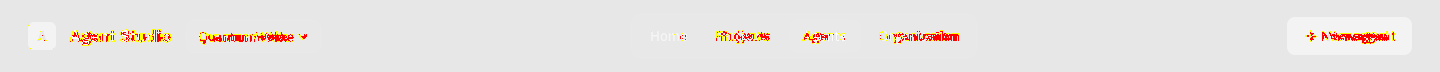
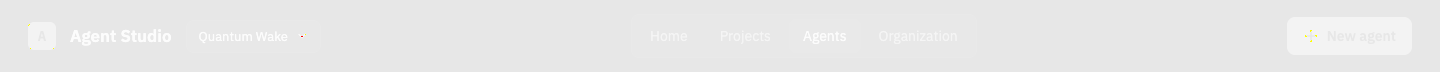
Match the AppHeader story to the Agents mockup source.
The gate's own browser scores the top 72px at 0.00% once the type, padding and controls follow source/Agents.dc.html.

Changed region(s): [[0.0312, 0.4167, 0.2188, 0.6389], [0.4688, 0.4167, 0.6875, 0.6111], [0.9062, 0.4444, 0.9688, 0.6111]]

diff --git a/examples/app-header/index.html b/examples/app-header/index.html
@@ -1,144 +1,34 @@
 <!DOCTYPE html>
 <html lang="en">
 <head>
-<meta charset="UTF-8" />
+<meta charset="utf-8" />
 <title>AppHeader</title>
+<link href="https://fonts.googleapis.com/css2?family=IBM+Plex+Mono:wght@400;500;600&amp;family=IBM+Plex+Sans:wght@400;500;600;700&amp;display=swap" rel="stylesheet">
 <style>
-  @font-face {
-    font-family: "IBM Plex Sans";
-    src: url("../../node_modules/@fontsource/ibm-plex-sans/files/ibm-plex-sans-latin-400-normal.woff") format("woff");
-    font-weight: 400;
-    font-style: normal;
-  }
-  @font-face {
-    font-family: "IBM Plex Sans";
-    src: url("../../node_modules/@fontsource/ibm-plex-sans/files/ibm-plex-sans-latin-500-normal.woff") format("woff");
-    font-weight: 500;
-    font-style: normal;
-  }
-  @font-face {
-    font-family: "IBM Plex Sans";
-    src: url("../../node_modules/@fontsource/ibm-plex-sans/files/ibm-plex-sans-latin-600-normal.woff") format("woff");
-    font-weight: 600;
-    font-style: normal;
-  }
-  html, body { margin: 0; background: #141210; }
-  header {
-    position: relative;
-    width: 1440px;
-    height: 72px;
-    background: #141210;
-    font-family: "IBM Plex Sans", sans-serif;
-    -webkit-font-smoothing: antialiased;
-    color: #ece6df;
-  }
-  .logo {
-    position: absolute;
-    left: 28px;
-    top: 22px;
-    width: 28px;
-    height: 28px;
-    border-radius: 6px;
-    background: #e8743b;
-    color: #0f0e0d;
-    font-weight: 600;
-    font-size: 14px;
-    line-height: 28px;
-    text-align: center;
-  }
-  .product {
-    position: absolute;
-    left: 69px;
-    top: 0;
-    height: 72px;
-    display: flex;
-    align-items: center;
-    font-weight: 600;
-    font-size: 17px;
-  }
-  .org {
-    position: absolute;
-    left: 186px;
-    top: 20px;
-    width: 135px;
-    height: 33px;
-    box-sizing: border-box;
-    border: 1px solid #2a2622;
-    border-radius: 8px;
-    background: #1c1a17;
-    color: #c9c0b6;
-    font-size: 14px;
-    font-weight: 400;
-    display: flex;
-    align-items: center;
-    padding: 0 12px 0 11px;
-    justify-content: space-between;
-  }
-  .nav {
-    position: absolute;
-    left: 631px;
-    top: 14px;
-    width: 346px;
-    height: 44px;
-    box-sizing: border-box;
-    border: 1px solid #2a2622;
-    border-radius: 10px;
-    background: #1c1a17;
-  }
-  .nav .pill {
-    position: absolute;
-    left: 157px;
-    top: 4px;
-    width: 72px;
-    height: 34px;
-    border-radius: 8px;
-    background: #2b2520;
-  }
-  .nav span {
-    position: absolute;
-    top: 0;
-    height: 42px;
-    display: flex;
-    align-items: center;
-    font-size: 14px;
-    font-weight: 500;
-    color: #a39a90;
-  }
-  .nav .home { left: 18px; }
-  .nav .projects { left: 83px; }
-  .nav .on { left: 170px; color: #ece6df; }
-  .nav .organization { left: 247px; }
-  .action {
-    position: absolute;
-    left: 1287px;
-    top: 17px;
-    width: 125px;
-    height: 38px;
-    border-radius: 8px;
-    background: #e8743b;
-    color: #0f0e0d;
-    font-size: 14px;
-    font-weight: 600;
-    display: flex;
-    align-items: center;
-    justify-content: center;
-    gap: 6px;
-  }
+  body { margin: 0; background: #0f0e0d; }
+  button { font: inherit; }
 </style>
 </head>
 <body>
-<header>
-  <div class="logo">A</div>
-  <div class="product">Agent Studio</div>
-  <div class="org">Quantum Wake <svg width="10" height="6" viewBox="0 0 10 6" aria-hidden="true"><path d="M1 1l4 4 4-4" fill="none" stroke="#a39a90" stroke-width="1.2" stroke-linecap="round"/></svg></div>
-  <div class="nav" role="tablist" aria-label="Sections">
-    <div class="pill" aria-hidden="true"></div>
-    <span class="home" role="tab">Home</span>
-    <span class="projects" role="tab">Projects</span>
-    <span class="on" role="tab" aria-selected="true">Agents</span>
-    <span class="organization" role="tab">Organization</span>
-  </div>
-  <div class="action">+ New agent</div>
+<!--
+  The header from docs/design/mockups/app-v2/source/Agents.dc.html.
+  The pixel gate clips this page to the top 72px of 8-Agents.png.
+-->
+<div style="min-height: 960px; background: #0f0e0d; color: #ece6df; font-family: 'IBM Plex Sans', system-ui, sans-serif; display: flex; flex-direction: column">
+<header style="display: flex; align-items: center; justify-content: space-between; gap: 20px; padding: 14px 28px; border-bottom: 1px solid #2a2622; background: #141210; flex-wrap: wrap">
+<div style="display: flex; align-items: center; gap: 14px">
+<div style="width: 28px; height: 28px; border-radius: 6px; background: #e8743b; display: flex; align-items: center; justify-content: center; font-family: 'IBM Plex Mono', monospace; font-weight: 600; color: #160d07; font-size: 14px">A</div>
+<span style="font-weight: 600; font-size: 17px">Agent Studio</span>
+<button type="button" style="display: inline-flex; align-items: center; gap: 8px; padding: 7px 12px; border-radius: 8px; border: 1px solid #2a2622; background: #1c1a17; color: #ece6df; font-size: 13px; cursor: pointer">Quantum Wake<svg width="12" height="12" viewBox="0 0 24 24" fill="none" stroke="currentColor" stroke-width="2.4" stroke-linecap="round" aria-hidden="true"><path d="M6 9l6 6 6-6"/></svg></button>
+</div>
+<nav aria-label="Sections" style="display: flex; gap: 4px; background: #1c1a17; border: 1px solid #2a2622; border-radius: 8px; padding: 4px">
+<span style="padding: 8px 14px; border-radius: 6px; color: #a39a90; font-size: 14px">Home</span>
+<span style="padding: 8px 14px; border-radius: 6px; color: #a39a90; font-size: 14px">Projects</span>
+<span style="padding: 8px 14px; border-radius: 6px; background: #2b2520; color: #ece6df; font-size: 14px">Agents</span>
+<span style="padding: 8px 14px; border-radius: 6px; color: #a39a90; font-size: 14px">Organization</span>
+</nav>
+<button type="button" style="display: inline-flex; align-items: center; gap: 8px; padding: 10px 16px; border-radius: 8px; border: none; background: #e8743b; color: #160d07; font-weight: 600; font-size: 14px; cursor: pointer"><svg width="16" height="16" viewBox="0 0 24 24" fill="none" stroke="currentColor" stroke-width="2.4" stroke-linecap="round" aria-hidden="true"><path d="M12 5v14M5 12h14"/></svg>New agent</button>
 </header>
+</div>
 </body>
 </html>

diff --git a/src/components/AppHeader.tsx b/src/components/AppHeader.tsx
@@ -40,16 +40,15 @@ export const AppHeader: React.FC<AppHeaderProps> = ({
                 display: 'flex',
                 alignItems: 'center',
                 justifyContent: 'space-between',
-                gap: 16,
-                height: 72,
-                padding: '0 28px',
+                gap: 20,
+                padding: '14px 28px',
                 background: studio.header,
                 borderBottom: `1px solid ${studio.line}`,
                 fontFamily: studio.font,
                 color: studio.text,
             }}
         >
-            <div style={{ display: 'flex', alignItems: 'center', gap: 10, minWidth: 0 }}>
+            <div style={{ display: 'flex', alignItems: 'center', gap: 14, minWidth: 0 }}>
                 <span
                     aria-hidden="true"
                     style={{
@@ -60,15 +59,16 @@ export const AppHeader: React.FC<AppHeaderProps> = ({
                         height: 28,
                         borderRadius: 6,
                         background: studio.accent,
-                        color: studio.ground,
-                        fontWeight: 650,
+                        color: '#160d07',
+                        fontFamily: studio.mono,
+                        fontWeight: 600,
                         fontSize: 14,
                         flex: 'none',
                     }}
                 >
                     {mark}
                 </span>
-                <span style={{ fontSize: 14, fontWeight: 600, whiteSpace: 'nowrap' }}>{product}</span>
+                <span style={{ fontSize: 17, fontWeight: 600, whiteSpace: 'nowrap' }}>{product}</span>
                 <label style={{ display: 'inline-flex', alignItems: 'center' }}>
                     <span className="sr-only" style={{ position: 'absolute', width: 1, height: 1, overflow: 'hidden', clip: 'rect(0 0 0 0)' }}>
                         Organization
@@ -79,11 +79,11 @@ export const AppHeader: React.FC<AppHeaderProps> = ({
                         onChange={(event) => onOrganization?.(event.target.value)}
                         style={{
                             appearance: 'none',
-                            background: studio.header,
-                            color: studio.textMuted,
+                            background: '#1c1a17',
+                            color: studio.text,
                             border: `1px solid ${studio.line}`,
                             borderRadius: 8,
-                            padding: '4px 28px 4px 10px',
+                            padding: '7px 12px',
                             font: 'inherit',
                             fontSize: 13,
                         }}
@@ -100,19 +100,22 @@ export const AppHeader: React.FC<AppHeaderProps> = ({
                     type="button"
                     onClick={action.onClick}
                     style={{
+                        display: 'inline-flex',
+                        alignItems: 'center',
+                        gap: 8,
                         border: 0,
                         borderRadius: 8,
-                        height: 38,
-                        padding: '0 16px',
+                        padding: '10px 16px',
                         background: studio.accent,
-                        color: studio.ground,
+                        color: '#160d07',
                         font: 'inherit',
                         fontSize: 14,
                         fontWeight: 600,
                         cursor: 'pointer',
                     }}
                 >
-                    + {action.label}
+                    <svg width="16" height="16" viewBox="0 0 24 24" fill="none" stroke="currentColor" strokeWidth="2.4" strokeLinecap="round" aria-hidden="true"><path d="M12 5v14M5 12h14" /></svg>
+                    {action.label}
                 </button>
             ) : user ? (
                 <div style={{ display: 'flex', alignItems: 'center', gap: 8, fontSize: 13 }}>

diff --git a/src/components/SegmentedNav.tsx b/src/components/SegmentedNav.tsx
@@ -13,6 +13,11 @@ export interface SegmentedNavProps {
     label?: string;
 }
 
+// Selected segment fill from the Agents mockup. It sits between the chip and
+// the line, and it is not one of the page surfaces.
+const segmentOn = '#2b2520';
+const chip = '#1c1a17';
+
 export const SegmentedNav: React.FC<SegmentedNavProps> = ({
     items,
     value,
@@ -23,13 +28,12 @@ export const SegmentedNav: React.FC<SegmentedNavProps> = ({
         role="tablist"
         aria-label={label}
         style={{
-            display: 'inline-flex',
-            alignItems: 'center',
-            gap: 2,
-            padding: 3,
-            background: studio.ground,
+            display: 'flex',
+            gap: 4,
+            background: chip,
             border: `1px solid ${studio.line}`,
-            borderRadius: 10,
+            borderRadius: 8,
+            padding: 4,
             fontFamily: studio.font,
         }}
     >
@@ -44,12 +48,12 @@ export const SegmentedNav: React.FC<SegmentedNavProps> = ({
                     onClick={() => onChange(item.id)}
                     style={{
                         border: 0,
-                        borderRadius: 8,
-                        padding: '6px 14px',
+                        borderRadius: 6,
+                        padding: '8px 14px',
                         font: 'inherit',
-                        fontSize: 13,
+                        fontSize: 14,
                         cursor: 'pointer',
-                        background: selected ? studio.card : 'transparent',
+                        background: selected ? segmentOn : 'transparent',
                         color: selected ? studio.text : studio.textFaint,
                     }}
                 >

diff --git a/src/components/AppHeader.test.tsx b/src/components/AppHeader.test.tsx
@@ -52,7 +52,7 @@ describe('AppHeader', () => {
                 action={{ label: 'New agent' }}
             />,
         );
-        expect(screen.getByRole('button', { name: '+ New agent' })).toBeInTheDocument();
+        expect(screen.getByRole('button', { name: 'New agent' })).toBeInTheDocument();
         expect(screen.getByRole('tab', { name: 'Agents' })).toHaveAttribute('aria-selected', 'true');
     });
 
